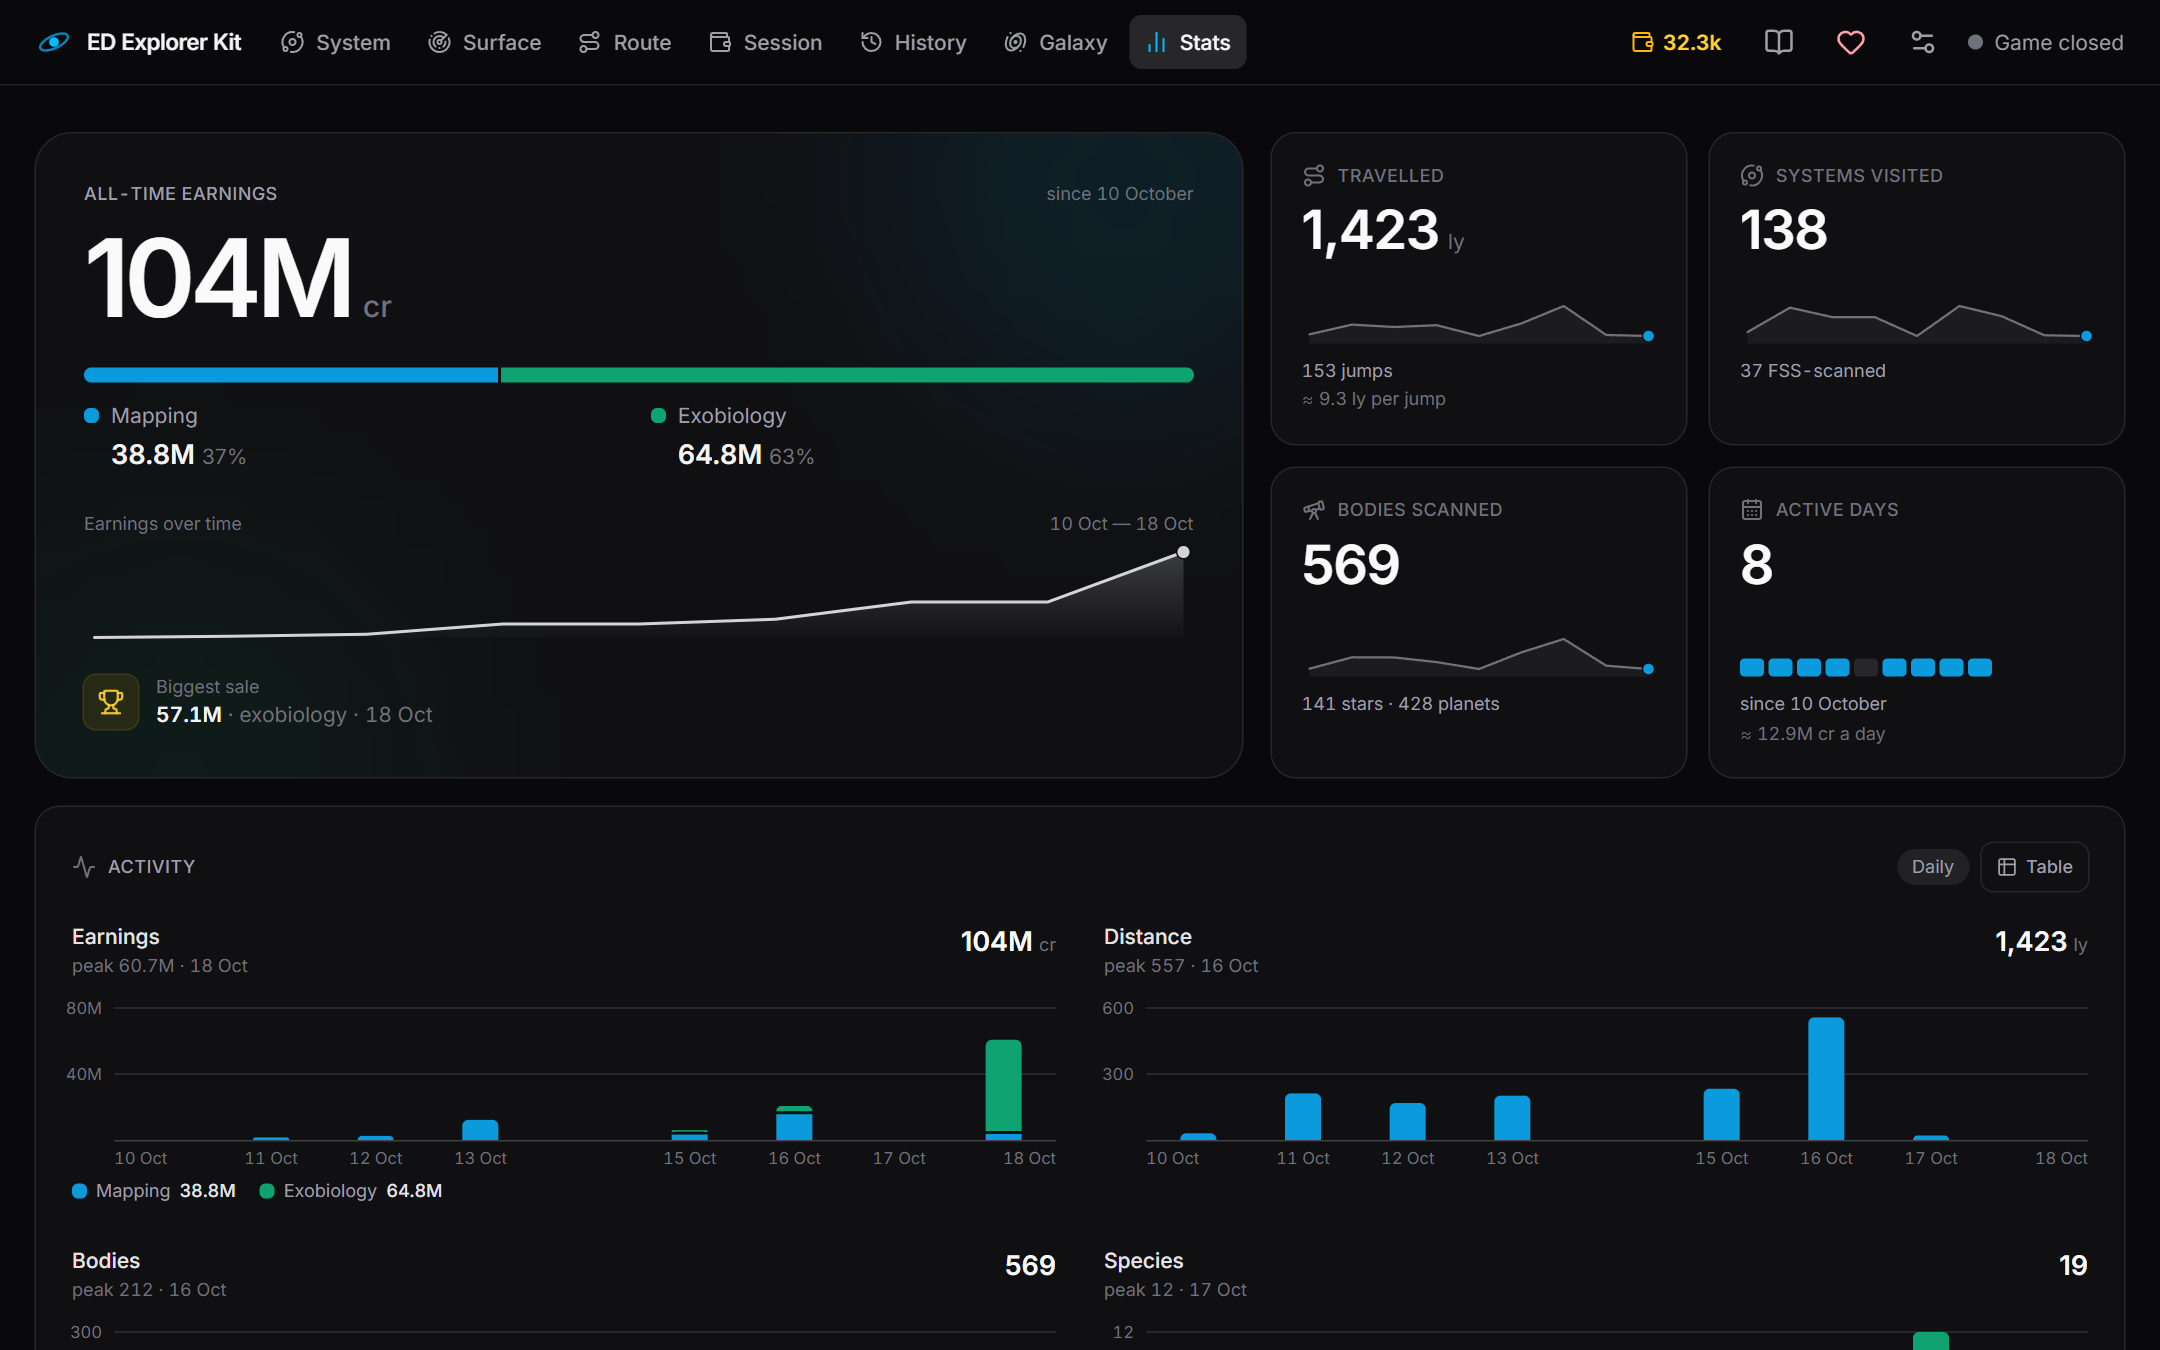
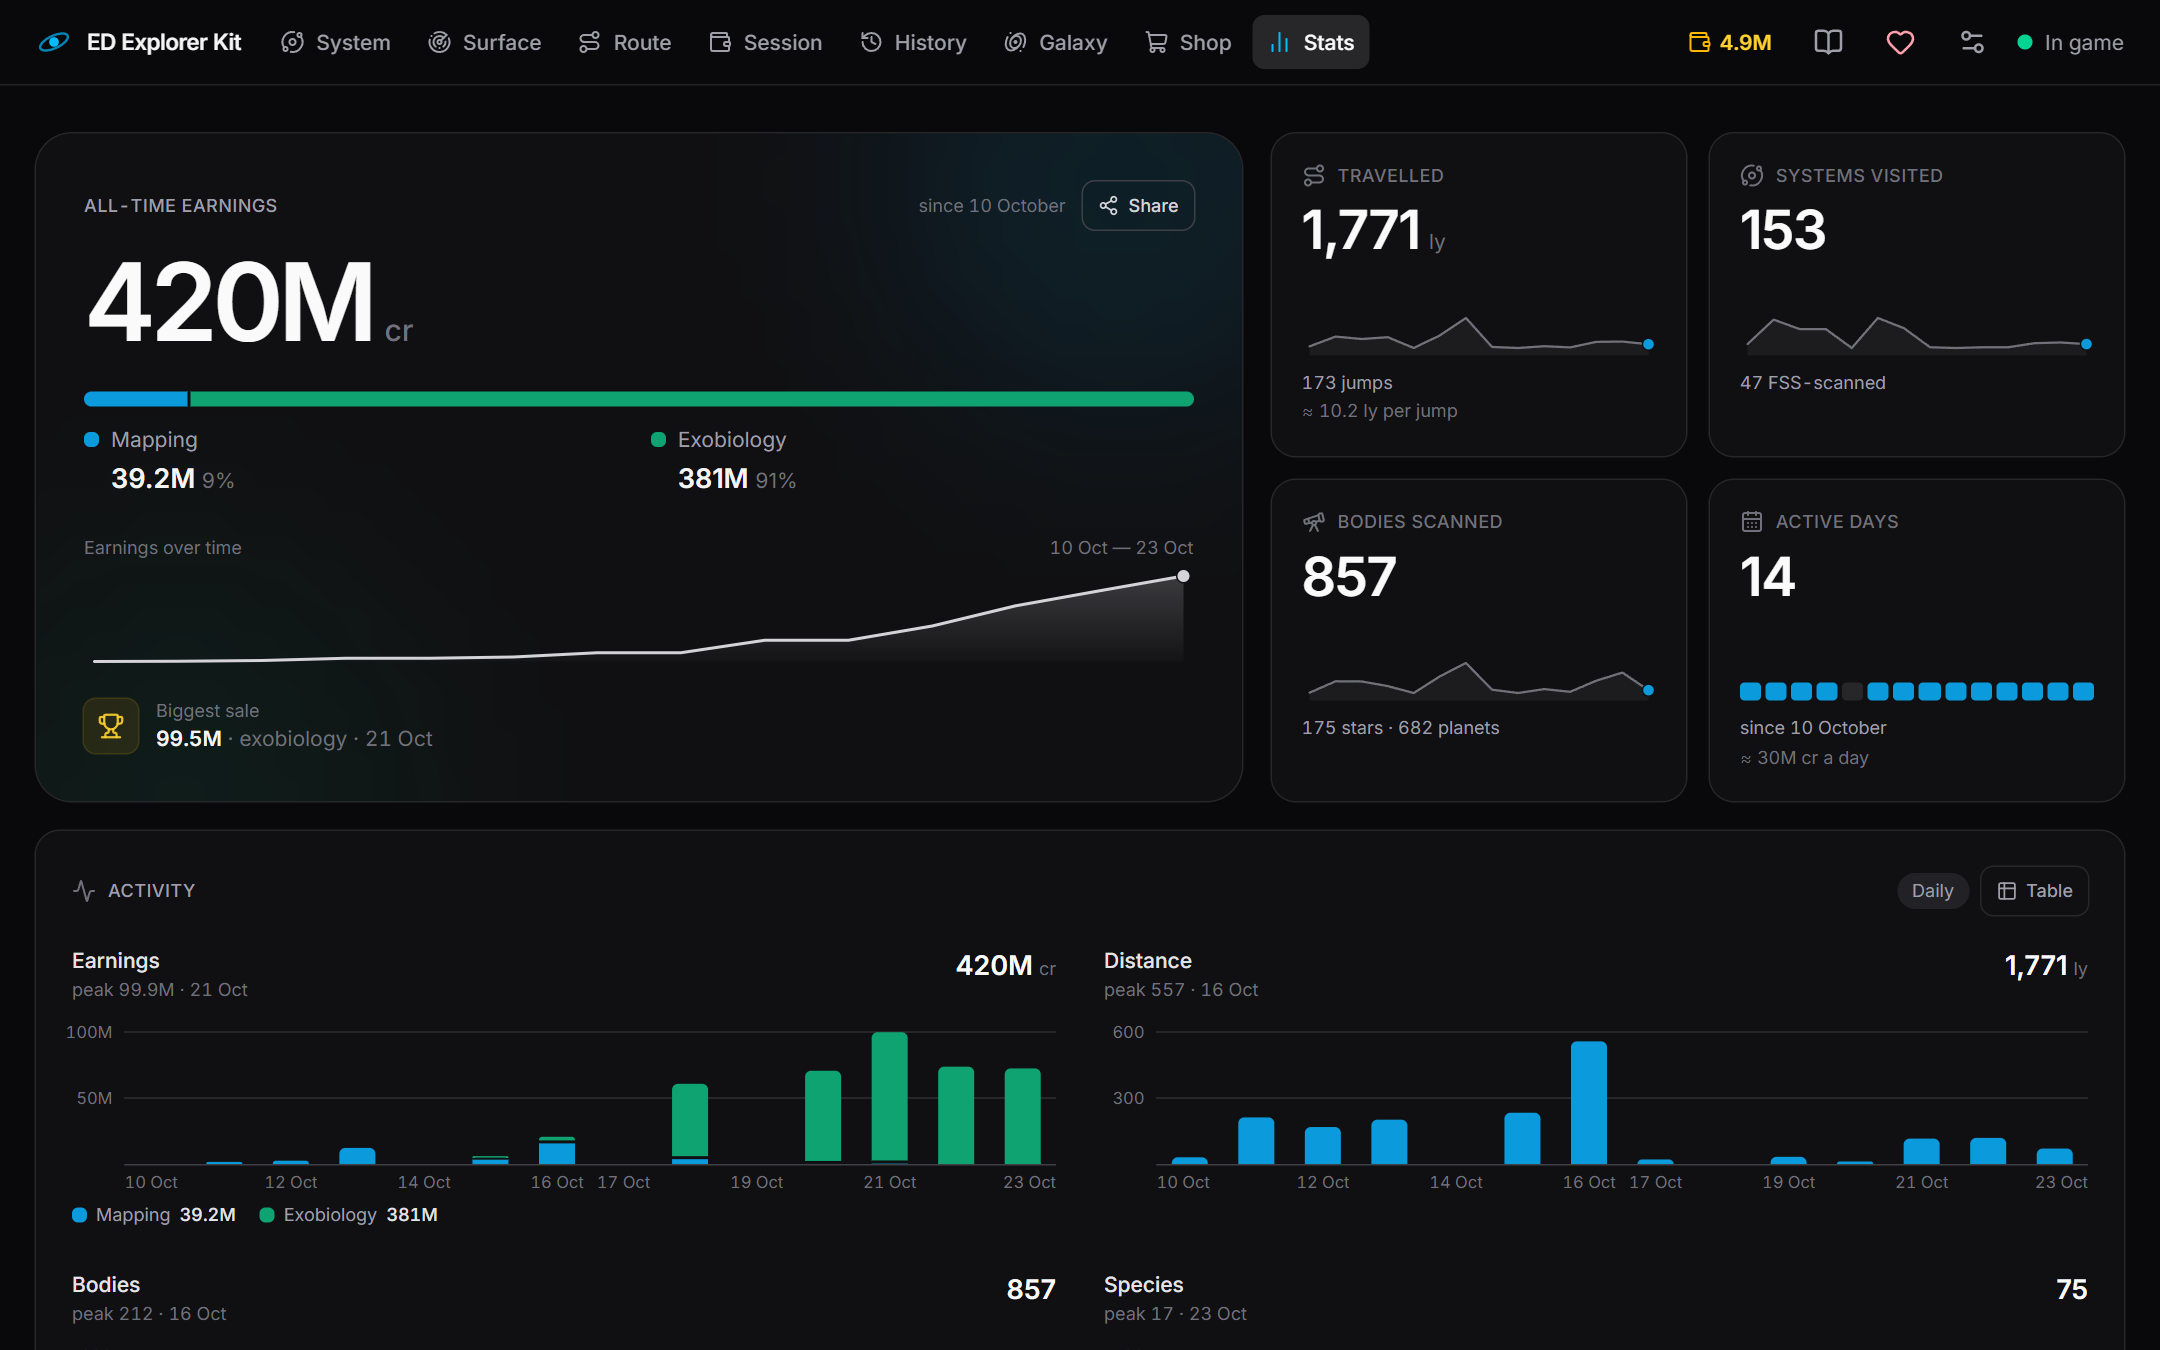
README: fresh screenshots, more tabs and a phone row
System and Stats retaken with the Shop tab in the bar. New: Surface
(sampling radar) and Route (plotted route with likely firsts), both from
the demo; Session and Shop (a ship's blueprint card); and three phone
shots (System, Surface, Stats) under "The same page on your phone".

diff --git a/README.ru.md b/README.ru.md
@@ -18,8 +18,24 @@
 - **Статистика** — итоги и рекорды за всё время; можно поделиться ими одной картинкой (с именем командира или без).
 
 <p>
+  <img src="docs/screenshot-surface.png" width="49%" alt="Вкладка «Поверхность»: радар сэмплов — взятые образцы, радиус колонии и сколько ещё идти, другие виды на планете">
+  <img src="docs/screenshot-route.png" width="49%" alt="Вкладка «Маршрут»: маршрут, проложенный в игре, с системами, которые, скорее всего, ещё никто не открыл, текущая остановка с телами, которые стоит посетить, и прогресс">
+</p>
+<p>
+  <img src="docs/screenshot-session.png" width="49%" alt="Вкладка «Сессия»: непроданные данные под риском — по экзобиологии и маппингу — и что было с последней продажи">
+  <img src="docs/screenshot-shop.png" width="49%" alt="Вкладка «Магазин»: Diamondback Explorer с эскизом-чертежом, базовой ценой, характеристиками и слотами">
+</p>
+<p>
   <img src="docs/screenshot-galaxy.gif" width="49%" alt="Вкладка «Галактика» медленно вращается вокруг вашего пути: путь с заработком и гибелями, игроки прямо сейчас (EDDN) — фиолетовые точки, инженеры — оранжевые кольца">
   <img src="docs/screenshot-stats.png" width="49%" alt="Вкладка «Статистика»: заработок за всё время по маппингу и экзобиологии, пройденный путь и активность по дням">
+</p>
+
+Та же страница на телефоне, по Wi-Fi:
+
+<p>
+  <img src="docs/screenshot-phone-system.png" width="32%" alt="Вкладка «Система» на телефоне: следующая остановка маршрута, ценность системы и карта орбит">
+  <img src="docs/screenshot-phone-surface.png" width="32%" alt="Радар сэмплов на телефоне: расстояние до ближайшего образца и куда идти">
+  <img src="docs/screenshot-phone-stats.png" width="32%" alt="Вкладка «Статистика» на телефоне: заработок за всё время и пройденный путь">
 </p>
 
 Интерфейс на английском, украинском или русском — переключается в настройках.

diff --git a/README.md b/README.md
@@ -18,8 +18,24 @@ shows everything in your browser.
 - **Stats**: all-time numbers and records, shared as one picture (with or without your commander name).
 
 <p>
+  <img src="docs/screenshot-surface.png" width="49%" alt="The Surface tab: the sampling radar with the samples taken, the colony range and the distance still to go, other species on the body">
+  <img src="docs/screenshot-route.png" width="49%" alt="The Route tab: the route plotted in the game with systems likely nobody has discovered yet, the current stop with its bodies worth a visit, and the progress">
+</p>
+<p>
+  <img src="docs/screenshot-session.png" width="49%" alt="The Session tab: unsold data at risk, split into exobiology and mapping, and what happened since the last sale">
+  <img src="docs/screenshot-shop.png" width="49%" alt="The Shop tab: the Diamondback Explorer with its blueprint sketch, base price, performance and slots">
+</p>
+<p>
   <img src="docs/screenshot-galaxy.gif" width="49%" alt="The Galaxy tab turning slowly around your travels: the path with earnings and deaths, other players right now (EDDN) as violet dots, engineers as orange rings">
   <img src="docs/screenshot-stats.png" width="49%" alt="The Stats tab: all-time earnings split into mapping and exobiology, travel numbers and daily activity">
+</p>
+
+The same page on your phone, over Wi-Fi:
+
+<p>
+  <img src="docs/screenshot-phone-system.png" width="32%" alt="The System tab on a phone: the next route stop, the system's values and the orbit map">
+  <img src="docs/screenshot-phone-surface.png" width="32%" alt="The sampling radar on a phone: the distance to the nearest sample and where to go">
+  <img src="docs/screenshot-phone-stats.png" width="32%" alt="The Stats tab on a phone: all-time earnings and travel numbers">
 </p>
 
 The interface is in English, Ukrainian or Russian; switch it in Settings.
